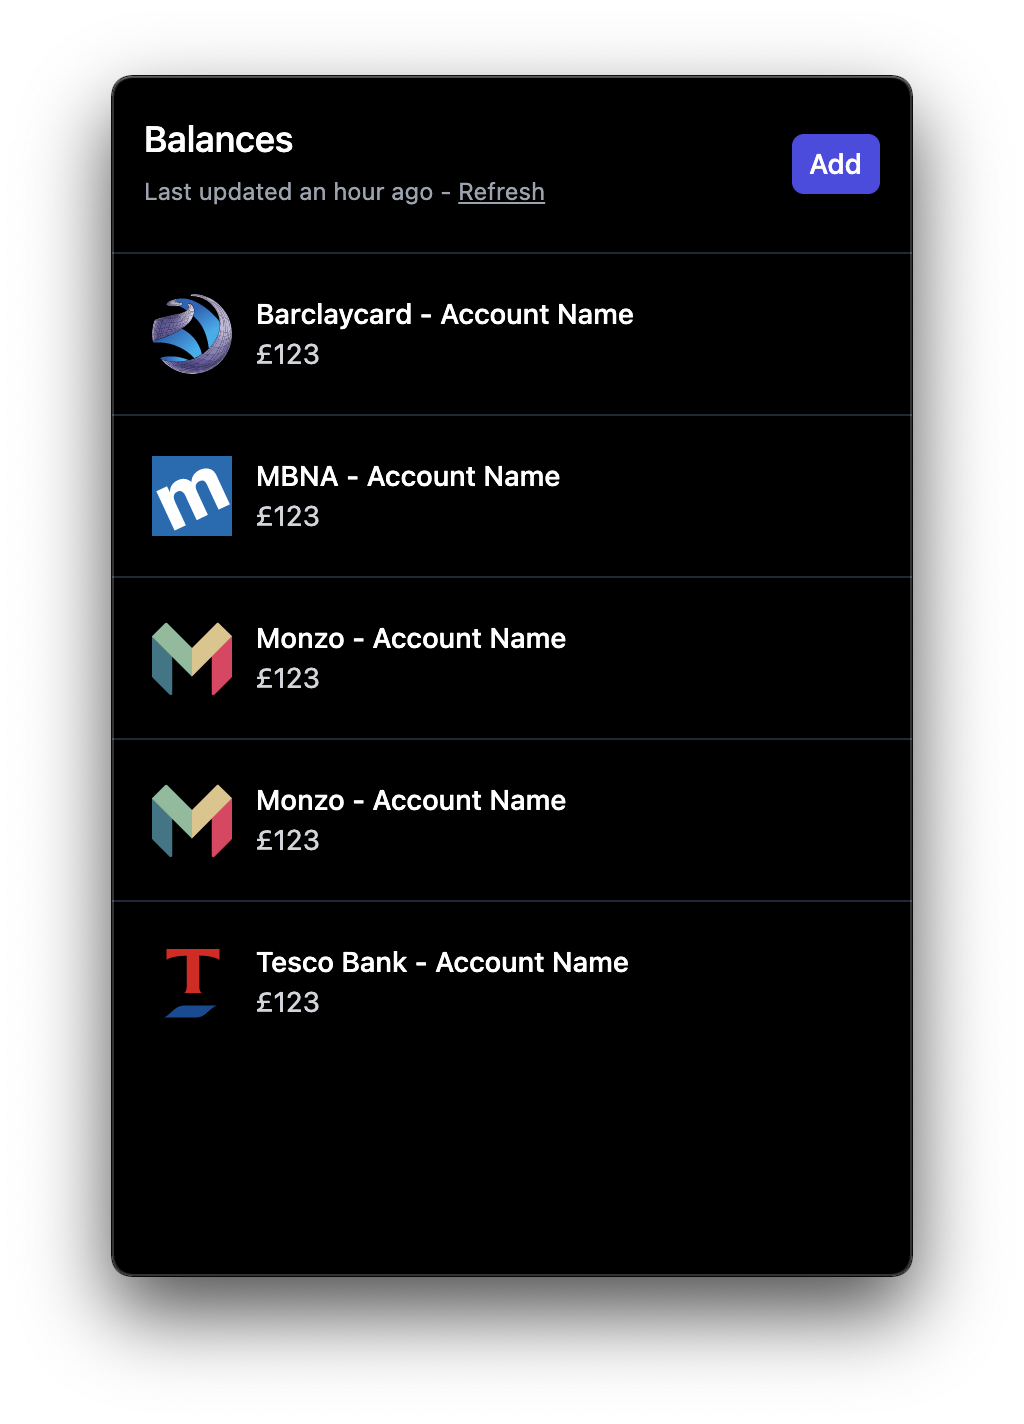
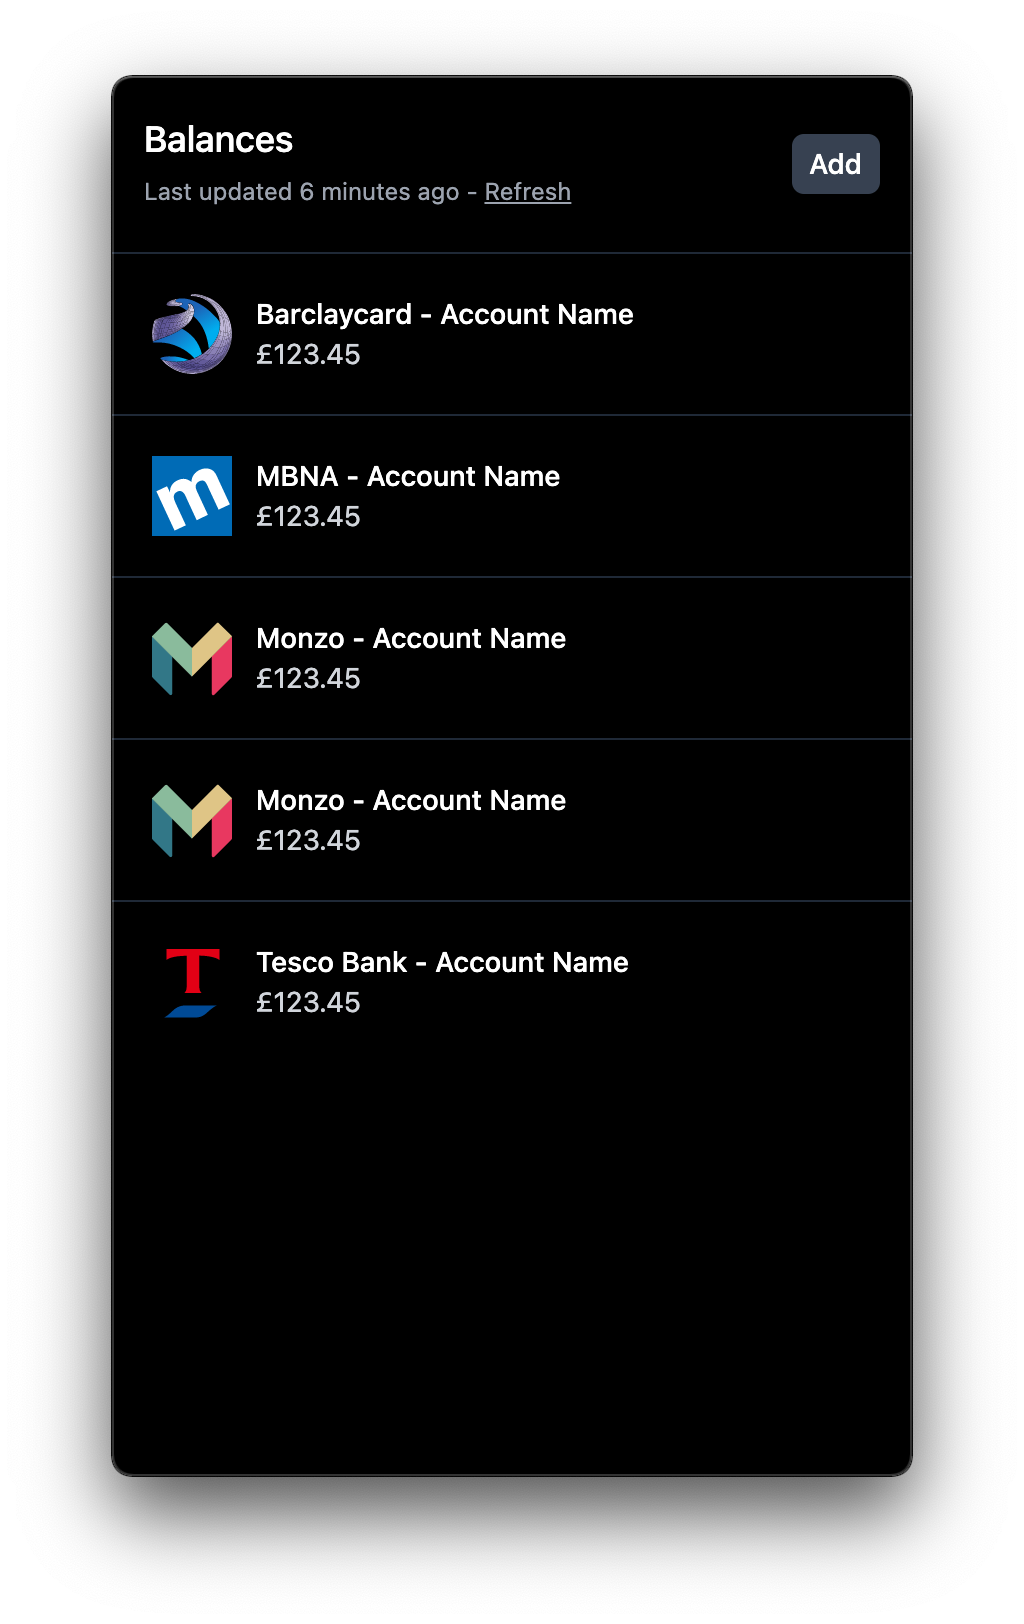
Using browser for oAuth, renaming some things, and adding MIT license

diff --git a/src/main/index.js b/src/main/index.js
@@ -1,13 +1,17 @@
 "use strict";
 
-import { app, Tray, ipcMain, nativeTheme, Menu, nativeImage } from "electron";
+import { app, Tray, nativeTheme, Menu, nativeImage } from "electron";
+import { autoUpdater } from "electron-updater";
 
 const { menubar } = require("menubar");
 
[1 lines of base64/hex data omitted]
 const winURL = process.env.NODE_ENV === "development" ? "http://localhost:9080" : `file://${__dirname}/index.html`;
 
-app.on("ready", () => {
+app.once("ready", () => {
+  app.setAsDefaultProtocolClient("balancebar");
+  autoUpdater.checkForUpdates();
+
   const icon = nativeImage.createFromDataURL(base64Icon);
   const tray = new Tray(icon);
 
@@ -20,6 +24,7 @@ app.on("ready", () => {
       type: "normal",
       click: () => {
         mb.window.webContents.send("goto-home");
+        mb.showWindow();
       },
     },
     {
@@ -27,6 +32,7 @@ app.on("ready", () => {
       type: "normal",
       click: () => {
         mb.window.webContents.send("refresh");
+        mb.showWindow();
       },
     },
     {
@@ -34,6 +40,7 @@ app.on("ready", () => {
       type: "normal",
       click: () => {
         mb.window.webContents.send("goto-connections");
+        mb.showWindow();
       },
     },
     {
@@ -42,6 +49,7 @@ app.on("ready", () => {
       click: () => {
         mb.window.webContents.send("reset");
         mb.window.loadURL(winURL);
+        mb.showWindow();
       },
     },
     {
@@ -66,6 +74,7 @@ app.on("ready", () => {
     browserWindow: {
       width: 400,
       minWidth: 400,
+      maxWidth: 400,
       height: 700,
       minHeight: 700,
       resizable: true,
@@ -77,39 +86,18 @@ app.on("ready", () => {
     },
   });
 
+  mb.app.on("open-url", function (event, data) {
+    event.preventDefault();
+
+    mb.window.webContents.send("handle-oauth", data);
+    mb.showWindow();
+  });
+
   mb.on("after-create-window", () => {
     mb.app.dock.hide();
   });
-
-  mb.on("ready", () => {
-    // Show TrueLayer on oAuth start
-    ipcMain.on("oauth-start", async (event, clientId) => {
-      const oAuthUrl = `https://auth.truelayer.com/?response_type=code&client_id=${clientId}&scope=info%20accounts%20balance%20cards%20offline_access&redirect_uri=http://localhost/oauth&providers=uk-ob-all%20uk-oauth-all%20uk-cs-mock`;
-      mb.window.loadURL(oAuthUrl);
-      mb.window.setAlwaysOnTop(true);
-    });
-
-    // Handle oAuth Callback
-    const {
-      session: { webRequest },
-    } = mb.window.webContents;
-
-    const filter = { urls: ["http://localhost/oauth*"] };
-    webRequest.onBeforeRequest(filter, async ({ url }) => {
-      await mb.window.loadURL(winURL);
-      mb.window.setAlwaysOnTop(false);
-      mb.window.webContents.send("handle-oauth", url);
-    });
-  });
 });
-
-import { autoUpdater } from "electron-updater";
 
 autoUpdater.on("update-downloaded", () => {
   autoUpdater.quitAndInstall();
-});
-
-app.on("ready", () => {
-  // if (process.env.NODE_ENV === "production") autoUpdater.checkForUpdates();
-  autoUpdater.checkForUpdates();
 });

diff --git a/src/renderer/components/home-header.vue b/src/renderer/components/home-header.vue
@@ -18,7 +18,7 @@
         <div class="ml-4 mt-2 flex-shrink-0 pt-2">
           <button
             type="button"
-            class="relative inline-flex items-center px-2 py-1 border border-transparent shadow-sm text-sm font-medium rounded-md text-white bg-indigo-600 hover:bg-indigo-700 focus:outline-none focus:ring-2 focus:ring-offset-2 focus:ring-indigo-500"
+            class="relative inline-flex items-center px-2 py-1 border border-transparent shadow-sm text-sm font-medium rounded-md text-white bg-black dark:bg-gray-700 hover:bg-gray-800 focus:outline-none"
             @click="startTrueLayerAuth"
           >
             Add
@@ -63,11 +63,9 @@ export default {
     },
 
     async startTrueLayerAuth() {
-      await this.$store.dispatch("setConnecting", true);
-      await this.$store.dispatch("resetAccounts");
-      await new Promise((r) => setTimeout(r, 500));
-
-      this.$electron.ipcRenderer.sendSync("oauth-start", this.$store.getters.truelayerClientId);
+      this.$electron.shell.openExternal(
+        `https://auth.truelayer.com/?response_type=code&client_id=${this.$store.getters.truelayerClientId}&scope=info%20accounts%20balance%20cards%20offline_access&redirect_uri=balancebar://oauth&providers=uk-ob-all%20uk-oauth-all%20uk-cs-mock`
+      );
     },
 
     refreshAccounts() {

diff --git a/src/renderer/components/account.vue b/src/renderer/components/account.vue
@@ -6,9 +6,10 @@
   >
     <img class="h-10 w-10" :src="account.bank.icon" alt="" />
     <div class="ml-3">
-      <p class="text-sm font-medium text-gray-900 dark:text-white">{{ account.bank.name }} - {{ account.name }}</p>
+      <p class="text-sm font-medium text-gray-900 dark:text-white">{{ account.bank.name }} - {{ screenshotMode ? "Account Name" : account.name }}</p>
       <p class="text-sm text-gray-500 dark:text-gray-300" :class="{ 'dark:text-white': account.error }">
-        {{ account.error ? account.error : account.balance }}
+        <span v-if="screenshotMode">£123.45</span>
+        <span v-else>{{ account.error ? account.error : account.balance }}</span>
         <transition name="fade">
           <span v-show="balanceCopied" class="text-gray-400"> copied</span>
         </transition>
@@ -29,6 +30,7 @@ export default {
   data() {
     return {
       balanceCopied: false,
+      screenshotMode: true, // A development helper to hide details for screenshots
     };
   },
 
@@ -48,3 +50,13 @@ export default {
   },
 };
 </script>
+
+<style scoped>
+.fade-enter-active,
+.fade-leave-active {
+  transition: opacity 0.5s;
+}
+.fade-enter, .fade-leave-to /* .fade-leave-active below version 2.1.8 */ {
+  opacity: 0;
+}
+</style>

diff --git a/src/renderer/pages/truelayer.vue b/src/renderer/pages/truelayer.vue
@@ -1,19 +1,17 @@
 <template>
-  <div class="dark:bg-black bg-white">
+  <div class="dark:bg-black bg-white select-none">
     <div class="bg-white px-4 py-3 border-b border-gray-200 dark:bg-black dark:border-gray-800">
       <h3 class="text-lg leading-6 font-medium text-gray-900 dark:text-white">Setup TrueLayer</h3>
     </div>
 
     <div class="pl-5 pr-5 bg-white dark:bg-black dark:text-white">
-      <p class="">We need your TrueLayer Client ID/Secret. Head over there, and create an application</p>
+      <p class="">Head over to TrueLayer and create an application. We need your Client ID/Secret.</p>
 
       <p class="mt-5">
         <a class="cursor-pointer underline" @click="openLink('https://console.truelayer.com')">https://console.truelayer.com</a>
       </p>
 
-      <p class="mt-5">The redirect url should be: http://localhost/oauth</p>
-
-      <p class="mt-5">And then enter the details below</p>
+      <p class="mt-5">The redirect url should be: balancebar://oauth</p>
 
       <form @submit="saveCredentials">
         <div class="mt-5">

diff --git a/src/renderer/pages/index.vue b/src/renderer/pages/index.vue
@@ -1,5 +1,5 @@
 <template>
-  <div class="dark:bg-black bg-white">
+  <div class="dark:bg-black bg-white select-none">
     <div v-if="isConnecting">
       <div class="spinner">
         <div class="double-bounce1" />
@@ -105,6 +105,8 @@ export default {
 
   methods: {
     async addCredentialsFromUrl(url) {
+      console.log("oAuth callback url received:", url);
+
       this.$store.dispatch("resetAccounts");
 
       const credentials = await credentialsFromUrl(this.$store.getters.truelayerClientId, url);
@@ -130,14 +132,6 @@ export default {
 </script>
 
 <style scoped>
-.fade-enter-active,
-.fade-leave-active {
-  transition: opacity 0.5s;
-}
-.fade-enter, .fade-leave-to /* .fade-leave-active below version 2.1.8 */ {
-  opacity: 0;
-}
-
 .spinner {
   width: 40px;
   height: 40px;

diff --git a/src/renderer/services/truelayer-oauth.js b/src/renderer/services/truelayer-oauth.js
@@ -2,7 +2,7 @@ import * as request from "request-promise";
 import { getTruelayerSecret } from "./secure-storage";
 import { fetchMe } from "./truelayer.js";
 
-const redirectUrl = "http://localhost/oauth";
+const redirectUrl = "balancebar://oauth";
 
 async function exchangeCodeForToken(truelayerClientId, code) {
   const requestOptions = {
@@ -60,7 +60,7 @@ export async function credentialsFromUrl(truelayerClientId, url) {
     let me;
 
     try {
-      console.log("exchanging tokens");
+      console.log(`exchanging tokens using code ${code} and clientId: ${truelayerClientId}`);
       tokens = await exchangeCodeForToken(truelayerClientId, code);
     } catch (e) {
       console.error("tokens failure");

diff --git a/src/renderer/pages/connections.vue b/src/renderer/pages/connections.vue
@@ -1,10 +1,11 @@
 <template>
-  <div class="dark:bg-black bg-white">
+  <div class="dark:bg-black bg-white select-none">
     <div class="">
       <div class="bg-white px-4 py-3 border-b border-gray-200 dark:bg-black dark:border-gray-800 pb-5">
         <div class="-ml-4 -mt-2 flex items-center justify-between flex-wrap">
           <div class="ml-4 mt-2">
             <h3 class="text-lg leading-6 font-medium text-gray-900 dark:text-white pt-2">Connections</h3>
+            <a class="underline cursor-pointer text-gray-400 text-xs" @click="$router.push('/')">Go Back</a>
           </div>
         </div>
       </div>

diff --git a/src/renderer/store/modules/store.js b/src/renderer/store/modules/store.js
@@ -49,8 +49,12 @@ const mutations = {
       state.credentials = [];
     }
 
-    state.credentials.push(oauth.credentials);
-    await storeRefreshToken(oauth.credentials, oauth.refreshToken);
+    // Ensure credentials are never added twice
+    const credentialExists = state.credentials.find((c) => c.credentials_id === oauth.credentials.credentials_id);
+    if (!credentialExists) {
+      state.credentials.push(oauth.credentials);
+      await storeRefreshToken(oauth.credentials, oauth.refreshToken);
+    }
   },
 
   setLastRefreshedAt(state, timestamp) {
